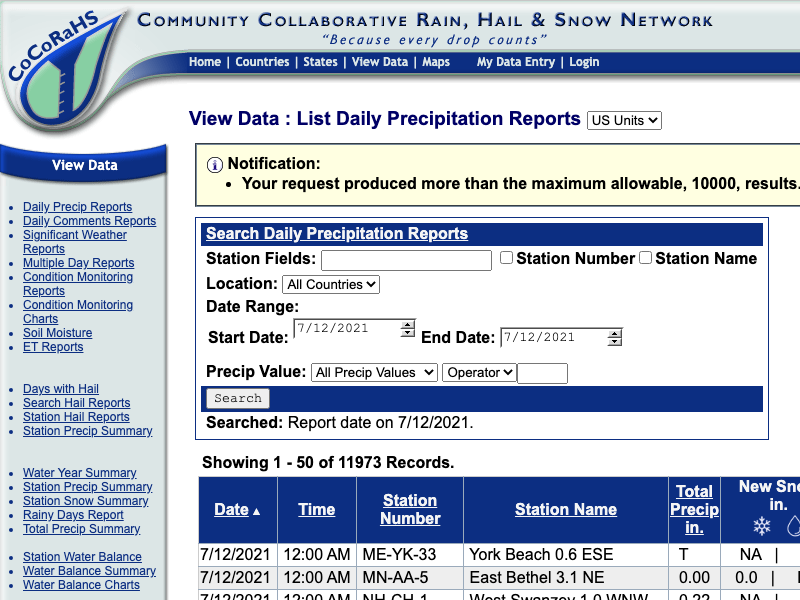
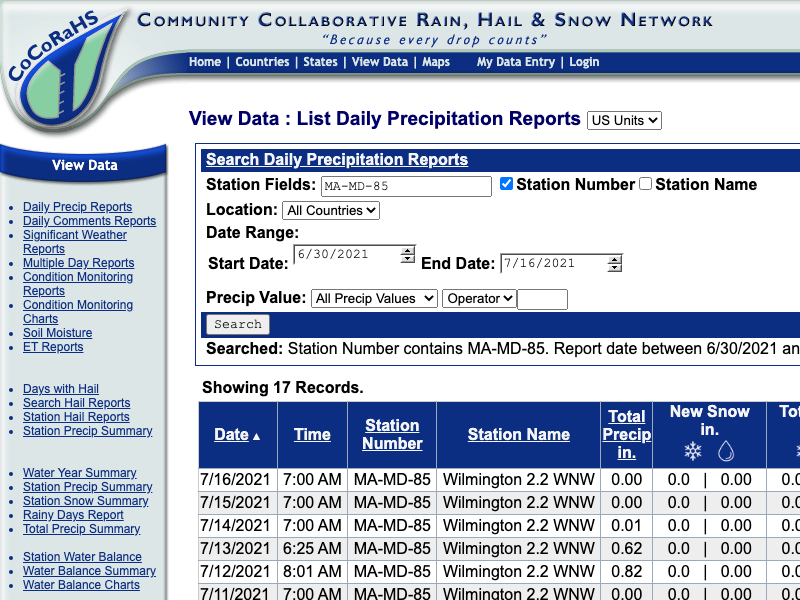
add page query

diff --git a/precips.js b/precips.js
@@ -8,22 +8,39 @@ const start_date = "#frmPrecipReportSearch_ucDateRangeFilter_dcStartDate_t"
 const end_date = "#frmPrecipReportSearch_ucDateRangeFilter_dcEndDate_t"
 const wilmington_station = "MA-MD-85"
 
+function run () {
 
-async function run () {
-  const browser = await puppeteer.launch();
-  const page = await browser.newPage();
-  await page.goto(url);
-  await page.type(station_field, wilmington_station);
-  await page.click(station_number_chkbox)
+  return new Promise(async (resolve, reject) => {
+    try {
+        const browser = await puppeteer.launch();
+        const page = await browser.newPage();
 
-
-  await page.click(search_btn)
-  browser.close();
+        //fill in form
+        await page.goto(url);
+        await page.type(station_field, wilmington_station);
+        await page.click(station_number_chkbox)
+        await page.type(start_date, "06/30/2021");
+        await page.type(end_date, "07/18/2021");
+        await Promise.all([page.waitForNavigation(), page.click(search_btn)]);
+        
+        let totals = await page.evaluate(() => {
+          const all_precips_selector = "tr[class$='Item'] > td:nth-child(5)"
+          let results = [];
+          let items_all = document.querySelectorAll(all_precips_selector);
+          items_all.forEach((item) => {
+            let t = item.innerText.trim()
+            results.push({
+              total: t,
+            });
+          });
+          return results;
+        })
+        browser.close();
+        return resolve(totals);
+    } catch (e) {
+        return reject(e);
+    }
+ })
 }
 
-function logit() {
-
-  console.log("")
-}
-
-run();
+run().then(console.log).catch(console.error);
